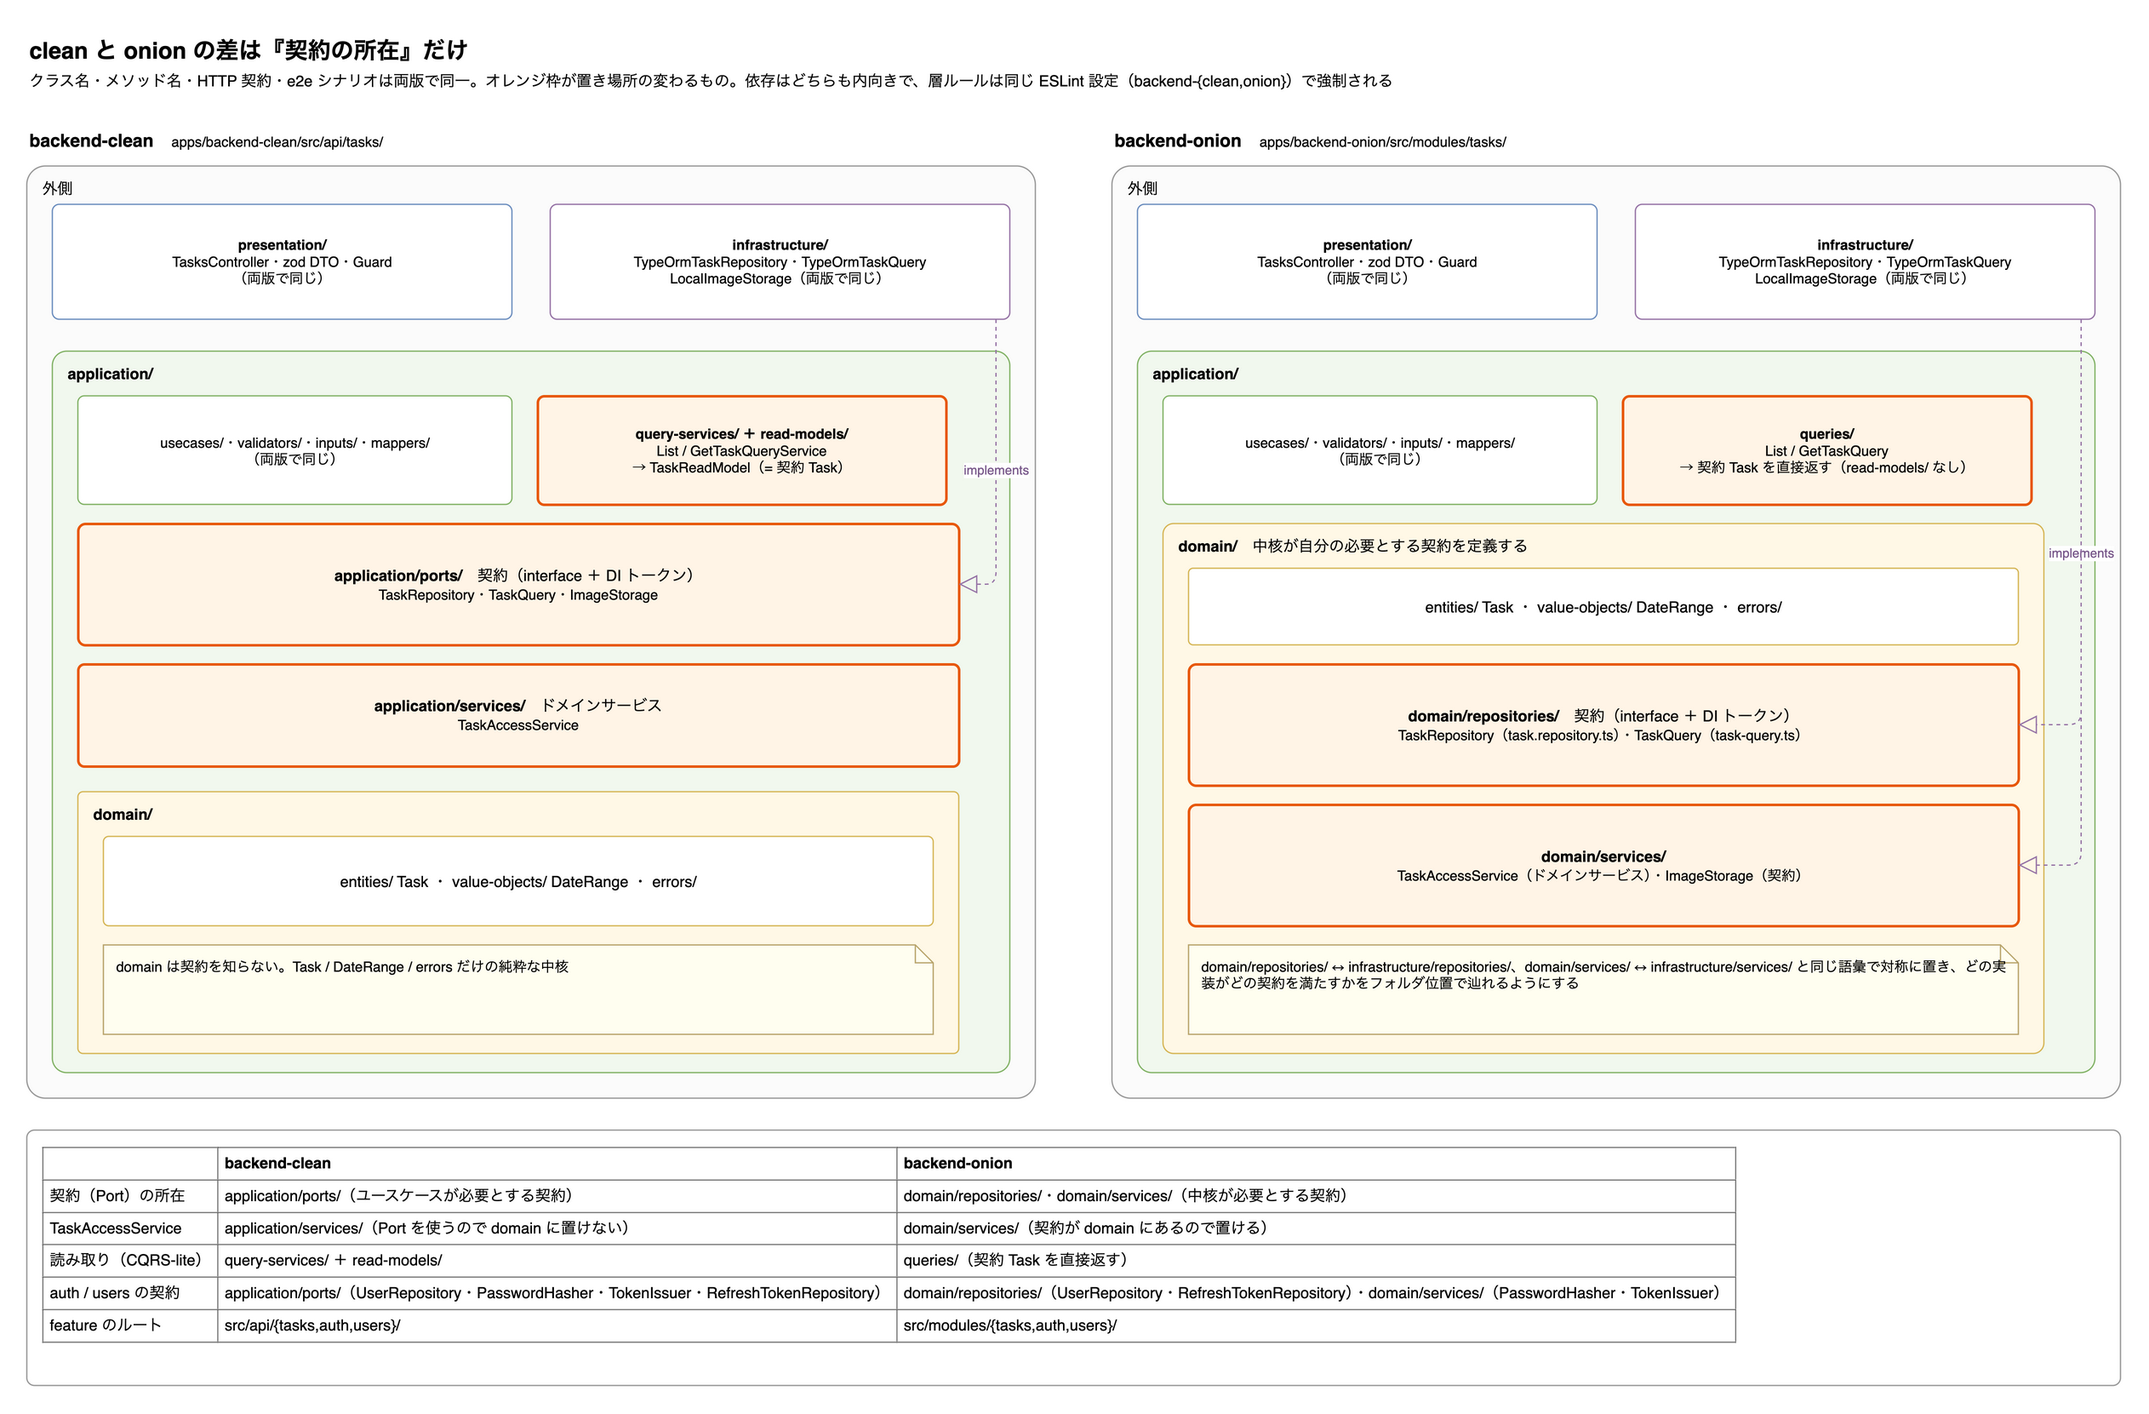
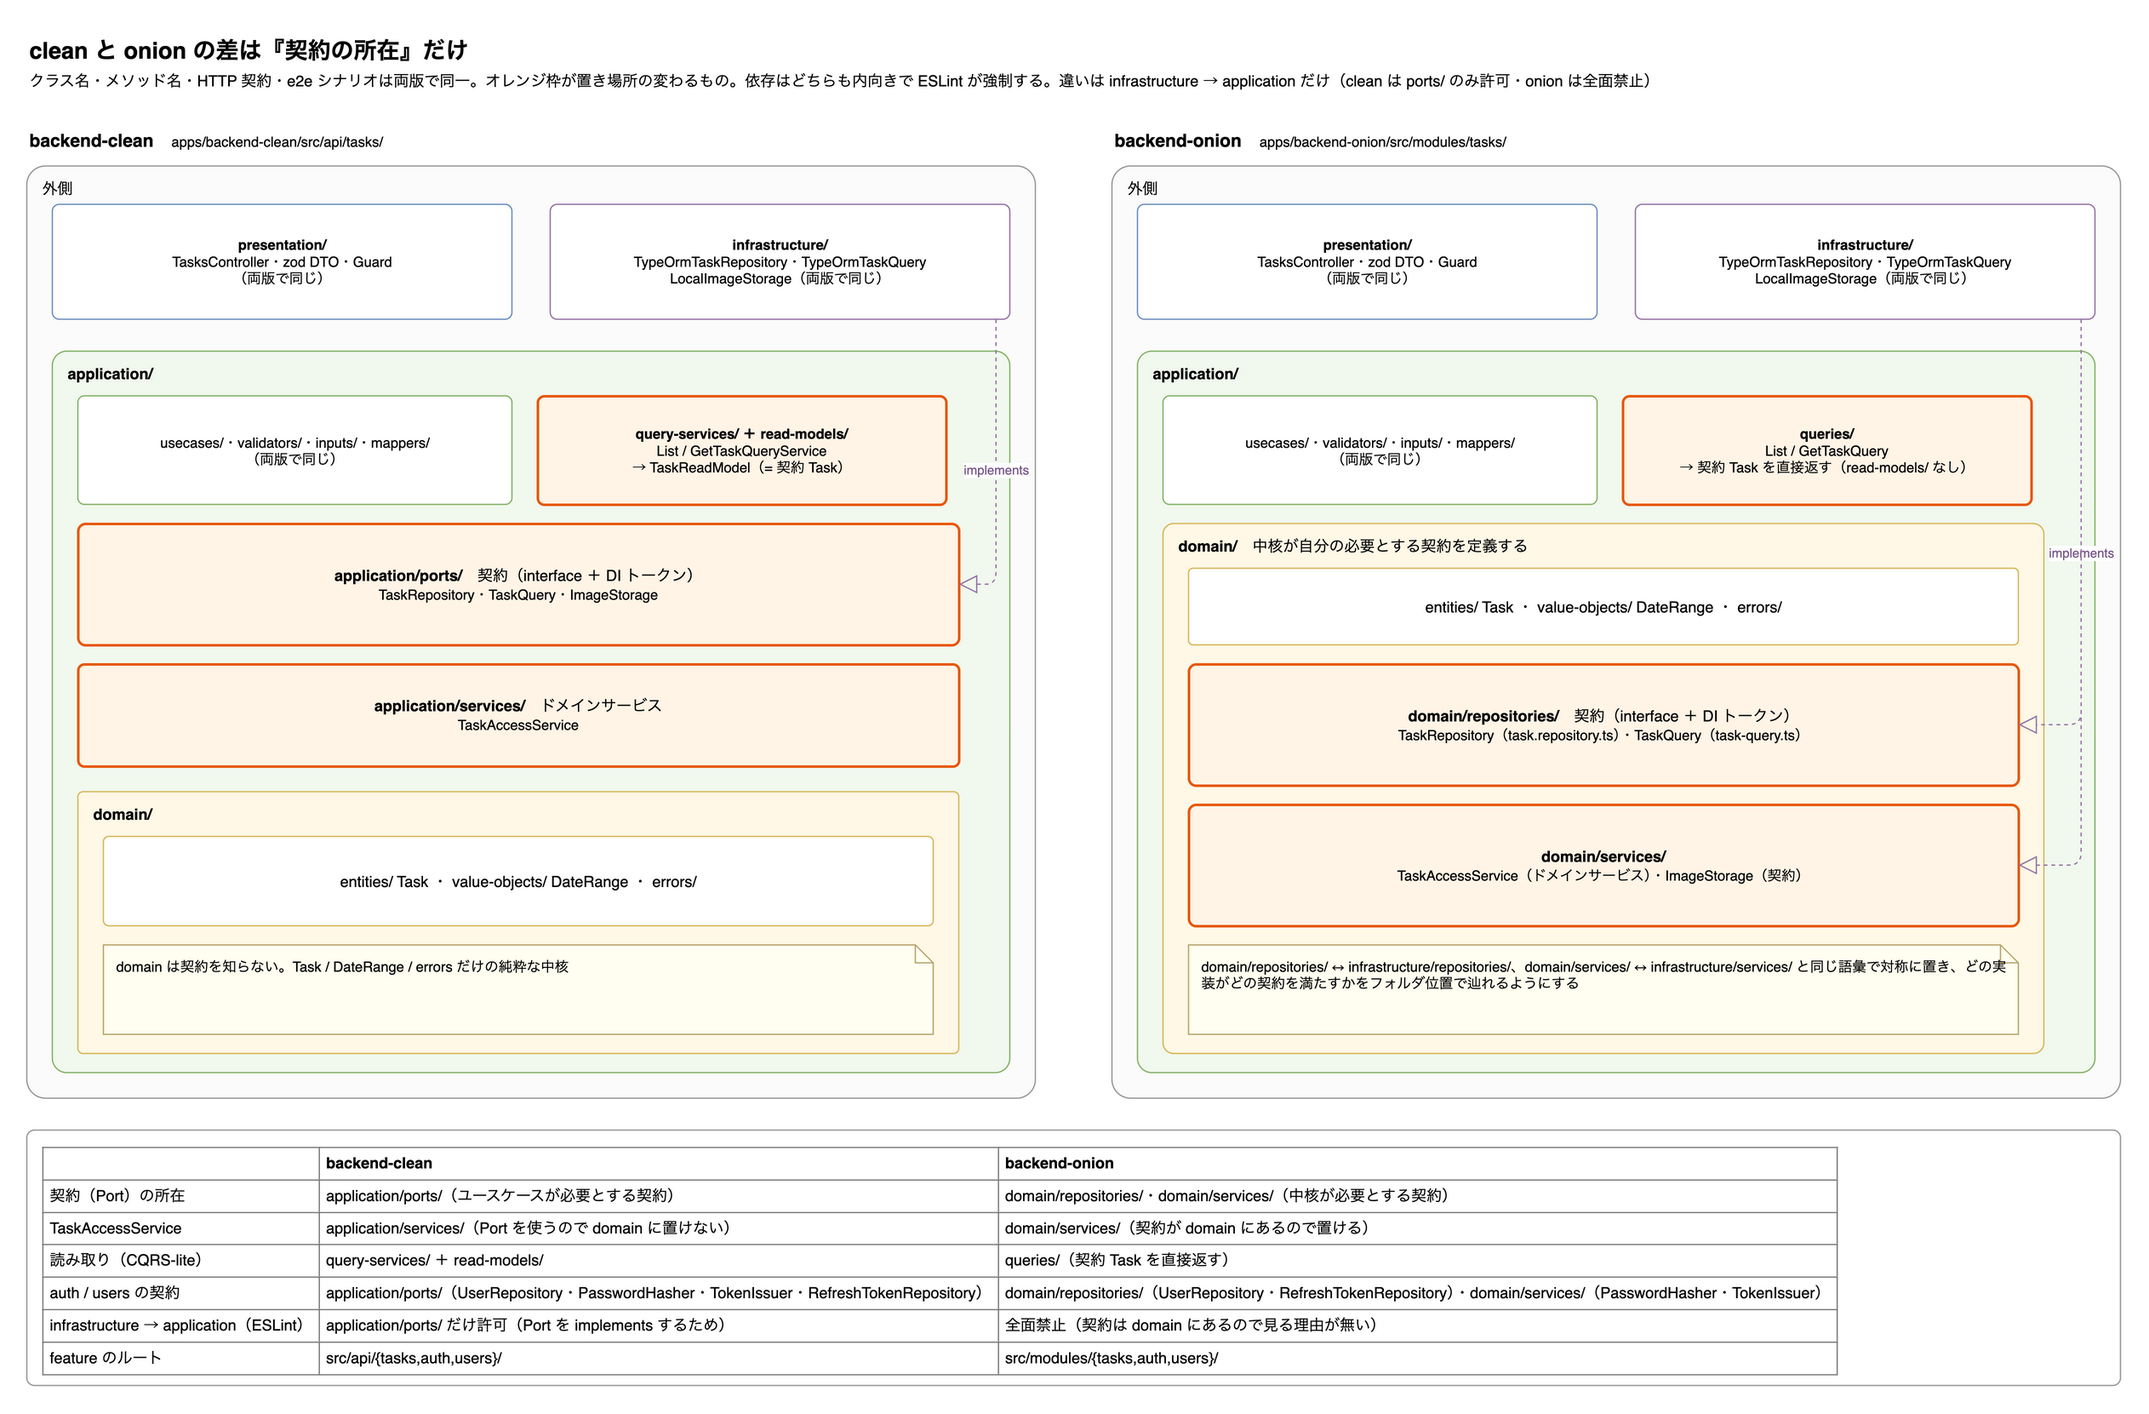
chore(lint): infrastructure → application の import をアーキごとに絞る
層ルールは infrastructure に presentation だけを禁止しており、infrastructure → application は
clean / onion とも全体が許可されていた。docs/09 の許可表（clean は application/ports/ だけ・onion は 0 件）は
たまたま守られていただけだったので、契約の所在に合わせて締める。

- clean: application/ports/ だけ許可（Port を implements するため）。usecases / validators などは禁止
- onion: 全面禁止（契約を domain が所有するため）

同じファイルに同じルールの設定が 2 つ当たると後勝ちで上書きされるため、(アーキ, 層) ごとに files を
分けた設定へ組み直した。clean の例外は gitignore 形式の否定では書けない（親ディレクトリが除外されると
配下を戻せない）ので、正規表現の否定先読みで表す。

違反・許可の import を 14 件置いて全件が期待どおりに検出されることを確かめてから削除した。
既存コードは無変更で pnpm lint が通る。

あわせて規約（stack-backend.md）・docs/09・docs/11・backend-clean 図（ページ 1・5）の記述を更新する。

Changed region(s): [[0.0309, 0.7983, 0.865, 0.9825], [0.4325, 0.0307, 0.7723, 0.0614]]

diff --git a/docs/11-tasks.md b/docs/11-tasks.md
@@ -59,6 +59,7 @@
 | 43 | PATCH で任意項目を明示的にクリアできるようにする | ✅ | 編集で説明・終了日・関連 URL を空にしても消せなかった（#65）。フォームが空欄を `undefined` に変換し、`undefined` は JSON 化でキーごと消えるため PATCH に載らず、バックエンドは「未指定＝変更しない」として扱っていた。**確認画面では空に見えるのに保存後に元の値が復活する**という、利用者に見える形の不具合。契約に「未指定」と「削除」を区別する手段が無かったのが根本原因なので、`TaskUpdate` の**任意項目だけを nullable** にし、**キーが無い＝変更しない / `null`＝削除する**と定めた。必須項目（`title` / `status` / `startDate`）は消す対象ではないので nullable にせず `null` は 422。作成（`TaskCreate`）側も消す対象が無いため nullable にせず、空欄はキーごと省略して送る（issue の完了条件どおり作成時の挙動は不変）。**バックエンドの内側は既に `?? null` で null を扱えており**、実際に塞がっていたのは契約 → DTO → Command 型の 3 段だけだった（domain の `applyUpdate` / `mergePeriod` は変更なし）。DTO は `createTaskSchema.partial().extend({ description: ....nullable() })` の形にして、値そのものの検証ルール（長さ・日付形式・URL スキーム）を作成側から流用する——同じルールを 2 か所に書かないため。FE は `TaskFormValue` の任意項目を `string \| null` にし、空欄を `null` として送出する。draft スキーマ（spa の sessionStorage / ssr の Cookie BFF）も nullable にした——`undefined` だと JSON 化でキーが消え、確認画面から戻ったときに「空にした」ことが失われるため。`UrlPreview` の prop も `string \| null` に広げた。**回帰検知はレベルごとに問いを分けた**: BE 単体＝スキーマが任意項目の null を受理し必須項目の null を拒否すること・変換が null と undefined を潰さないこと / BE e2e＝3 項目それぞれで値が消え、キーを送らなければ変わらないこと / FE 単体＝空欄を null として送出すること / **FE E2E（Playwright）＝編集で空欄にしたら詳細画面で本当に消えていること**——BE だけ直しても FE が `undefined` を送れば同じ不具合が残るため、利用者に見える形の担保はここにしか置けない。（単体 BE layered 129→139 / clean 177→189 / onion 177→189・FE spa 62→64 / ssr 63→65・e2e 3 版とも 50→59）|
 | 44 | ワークフローとドキュメントを静的解析にかける / 秘匿ファイルの追跡を CI で落とす | ✅ | `ci.yml` はテスト構成としては整っていたが、**ワークフロー自体とドキュメントが一切検査されていなかった**（#98）。また `.gitignore` は「混入させない」側の対策でしかなく、**追跡された時点で落とす**検出側が無かった（#103）。3 ジョブ（actionlint / markdownlint / secret-scan）を追加し、いずれも `changes` に依存させず全 PR で常時実行する（数秒で終わり、検査対象は変更種別を問わず壊れうる）。**actionlint は公式 Docker イメージをタグ固定で使う**——actionlint は `run:` の中身を取り出して外部の shellcheck へ渡す設計で、PATH に無いと**その層だけエラーにも警告にもならず静かにスキップ**され終了コードは 0 のまま。`brew install` / `go install` は shellcheck を連れてこないため、バイナリ直取得だと「レビューで最も見落とされる層」が黙って抜ける。**markdownlint の方針は「見た目は検査せず、壊れているものだけを検出する」**——導入時 796 件のうち **751 件が MD013（行長）と MD060（表のパイプ揃え）**で、本リポジトリは `.prettierignore` で `*.md` を除外している（表の桁揃えで差分が肥大し内容差分が埋もれるため）＝ Markdown に整形役が居らず、有効にすると手で直し続けることになり警告が常態化する。残り 45 件は**すべて修正**（抑制コメントは 1 件も使っていない）。この仕分けの過程で**実バグが 2 件**見つかった: `docs/09` の手順が `1. 3. 4.` と連番を飛ばしていたこと（MD029）と、`#backend-clean--auth--users` という**実在しないアンカーへのリンク切れ**（MD051）。どちらも差分を読むだけでは見つからない種類。**secret-scan は `git ls-files` を使う**——インデックスを読むだけで履歴もワーキングツリーも走査しないため常時実行でき、鍵・`.env` 系を検出しつつ `*.example` / `*.env.d.ts` を素通りさせる（16 パターンで分類を実地検証してから採用）。**コマンドの定義は `package.json` の 1 箇所**に置き、CI（`pnpm lint:md` / `pnpm lint:workflows`）と `Makefile`（`make lint-md` / `make lint-workflows`）の双方がそれを呼ぶ。バージョンは lockfile（`markdownlint-cli2` をキャレット無しで固定）とイメージタグが保証する。`docs` ジョブは `pnpm install --filter .` でルートの依存だけを入れる（1.3 秒 / 74MB。実地検証済み）。規約は `.claude/rules/` に `github-actions.md` と `static-analysis.md` を追加し、`CLAUDE.md` / `AGENTS.md` のルール一覧も同期した（テストコードの変更なし）|
 | 45 | frontend の dev サーバを復旧する | ✅ | `nuxt dev` が起動しない既知の制約を「Vite 7 非互換」と記録していたが、**実測すると原因は Vite ではなく 2 つの別々の Nuxt 側の問題**だった。①`frontend-spa`（`ssr: false`）は `No entry found in rollupOptions.input` で起動失敗——`@nuxt/vite-builder` が `ssr: false` のとき **client のサーバ設定を server 用の解決関数 `resolveServerEntry()` に渡しており**、`input.server` を探すのに client 側は `input.entry` しか持たないため必ず落ちる。②`frontend-ssr`（`ssr: true`）は起動もビルドも成功するが**全リクエストが 500**——vite-node の Unix ドメインソケットのパスが 110 バイトで、macOS の `sys/un.h` の `sun_path[104]` を超えて `connect(2)` が `EINVAL` を返していた（`TMPDIR` が `/var/folders/...` と長いため。`sun_path` が 108 の Linux と Docker では再現しない＝ CI が緑のまま見逃されていた）。**どちらも Nuxt 3.21.9 で修正済み**（`pickSocketPath` が `platform === 'linux' ? 108 : 104` を明示的に検査して `/tmp` へ退避する形になった＝ upstream も同じ原因に到達している）ため 3.21.11 へ更新した。ただし 3.21.9 は**同時に型の退行を持ち込む**: 自動 import の型定義が `import('.../node_modules/vue')`（ディレクトリ＝ `package.json` の `types` 経由で `dist/vue.d.ts` に到達）から `import('.../node_modules/vue/index')`（ファイル＝隣に `index.d.ts` が無い）へ変わり、**199 個の自動 import のうち 134 個（`ref` / `computed` / `watch` / `defineComponent` 等 Vue の API 全域）が `any` に落ちる**。`skipLibCheck: true` が `.d.ts` 内の TS7016 を握り潰すため**エラーとして出るのは引数の文脈型が必要な 2 箇所だけ**で、残りは黙って型が消える。原因は pnpm の厳格な `node_modules` で `vue` がアプリ配下に居らず Nuxt がストア実体の絶対パスへフォールバックすることなので、**`vue` を各 frontend の直接依存として宣言**して解決した（Nuxt がベア指定子 `import('vue')` を出力するようになる）。実際に使っている依存を宣言するだけで、フォールバック経路自体を踏まなくなる |
+| 46 | infrastructure → application の import をアーキごとに絞る | ✅ | フェーズ 38 の層ルールは infrastructure に presentation だけを禁止しており、**infrastructure → application は両版とも全体が許可**されていた。docs/09 の許可表には「clean は `application/ports/` だけ・onion は 0 件」と書かれていたが、それを守らせる仕組みは無く、違反 0 件は**たまたま**守られている状態だった（#115 の作図中に判明）。契約の所在に合わせてアーキで分け、clean は `ports/` だけ許可（Port を implements するため）、onion は全面禁止（契約を domain が所有するため）にした。アーキごとに files を分けた設定へ組み直したのは、同じファイルに同じルールの設定が 2 つ当たると後勝ちで上書きされる（マージされない）ため。**最初に書いた gitignore 形式の否定（`!**/application/ports/**`）は効かず、許可したい `ports/` の import まで違反になった**（親ディレクトリが除外されると配下を戻せない規則）ため、正規表現の否定先読みに変えた。**ルールが実際に発火することを検証してから採用**（clean / onion / layered の各層に違反・許可の import を 14 件置き、全件が期待どおりになることを確かめて削除。`application` 単体・`portsx` のような似た名前も禁止側に入ることを確認）。既存コードは無変更で `pnpm lint` が通る（lint 設定と docs のみ）|
 
 ## テスト集計
 

diff --git a/.claude/rules/stack-backend.md b/.claude/rules/stack-backend.md
@@ -36,6 +36,7 @@ globs: apps/backend-*/**
 - **application は presentation を import しない（clean / onion）**: Controller が契約型（`TaskCreate` / `TaskUpdate` / `RegisterRequest` 等）を `application/inputs/` の変換関数で Command 型（`CreateTaskInput` 等）に直してから UseCase / Validator を呼ぶ。変換関数の引数は **DTO 型（`z.infer<...>`）ではなく契約型**にする（契約型は `@app/api-client` にあり presentation・application のどちらからも等距離なので、共通語彙にすると依存が内向きに揃う）。ISO 文字列 → `Date` の正規化も境界であるこの変換で済ませ、内側に文字列日付を持ち込まない。
 - **層の依存方向は ESLint で機械強制する（clean / onion）**: `eslint.config.mjs` の `@typescript-eslint/no-restricted-imports` で下記を禁止し、`pnpm lint` / CI で検出する。規約と手動レビューだけに頼らず、違反したコミットが落ちる状態に保つ。
   - domain → application / infrastructure / presentation ／ application → infrastructure / presentation ／ presentation → infrastructure ／ infrastructure → presentation
+  - **infrastructure → application はアーキで分ける**（契約の所在が違うため）。clean は契約が `application/ports/` にあるので **`ports/` だけ許可**し、それ以外（usecases / validators / services 等）は禁止する。onion は契約を domain が所有するので **全面禁止**。
   - **layered は対象外**（`presentation → application → infrastructure` の素直な依存＝ Port による逆転をしないこと自体が比較軸のため）。
   - `*.module.ts` は feature 直下＝層の外なので対象にならず、合成ルートとして infrastructure を配線できる。
   - 禁止方向に import したくなったら、それは Port を足す合図（interface + DI トークンを内側に足し、実装を infrastructure に置いて `*.module.ts` で束ねる）。

diff --git a/docs/09-architecture-specification.md b/docs/09-architecture-specification.md
@@ -145,6 +145,10 @@ modules/tasks/
 | ❌ application → presentation | 入力は `application/inputs/` の Command 型で受ける |
 | ❌ presentation → infrastructure | 実装を差すのは `*.module.ts` の仕事 |
 | ❌ infrastructure → presentation | 最外どうしを直結させない |
+| ❌ infrastructure → application（clean は `ports/` 以外） | clean は Port を implements するために `application/ports/` だけを見ればよい。usecases / validators などへの import は実装の詳細が中心のロジックに入り込む経路になる |
+| ❌ infrastructure → application（onion は全面） | onion は契約を domain が所有するので、infrastructure が application を見る理由が無い |
+
+- **infrastructure → application の扱いだけはアーキで分かれる**。以前は両版とも「application 全体を許可」で、上表の許可範囲（clean は `ports/` だけ・onion は 0 件）は**たまたま守られていた**だけだった（どちらも違反 0 件の状態から締めた）。clean の例外は gitignore 形式の否定（`!**/application/ports/**`）では書けない（親ディレクトリが除外されると配下を戻せない）ため、正規表現の否定先読み（`(^|/)application(/(?!ports(/|$))|$)`）で「`application/` の直後が `ports/` 以外」を禁止している。
 
 - **layered は対象外**。`presentation → application → infrastructure` の素直な依存（Port による逆転をしない）こと自体が比較軸のため、`application/task.util.ts` が `infrastructure/task.entity.ts` を import する状態を維持する。
 - **`*.module.ts` はどの層にも属さない**（feature 直下に置く）ため lint の対象にならず、合成ルートとして infrastructure を配線できる。層ディレクトリの中に置くとこの表が崩れる。
